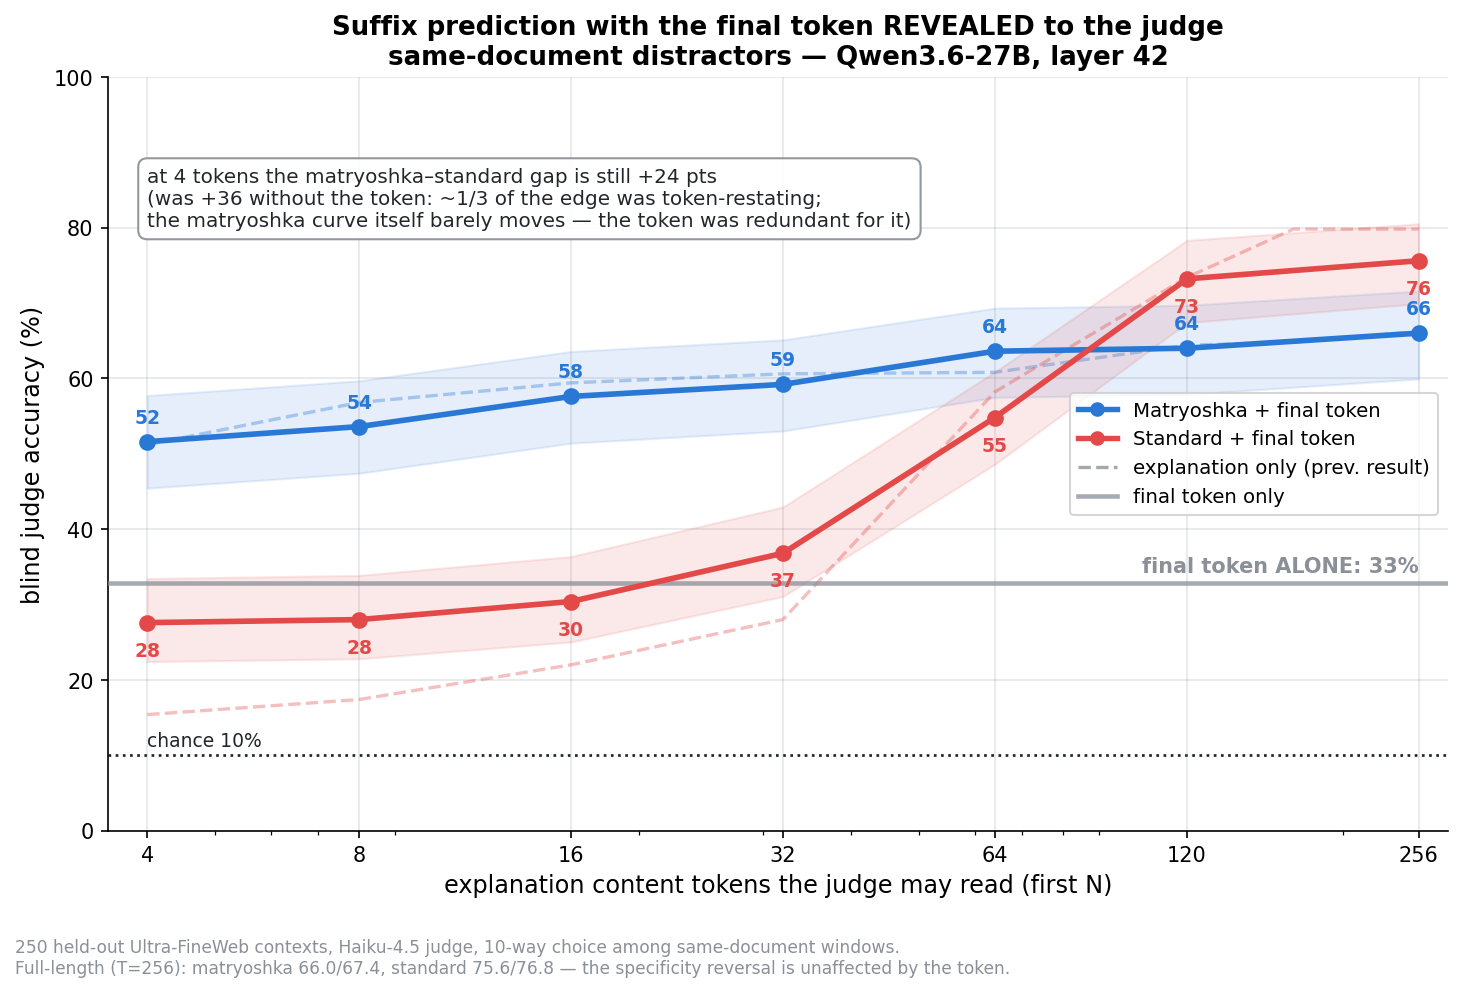
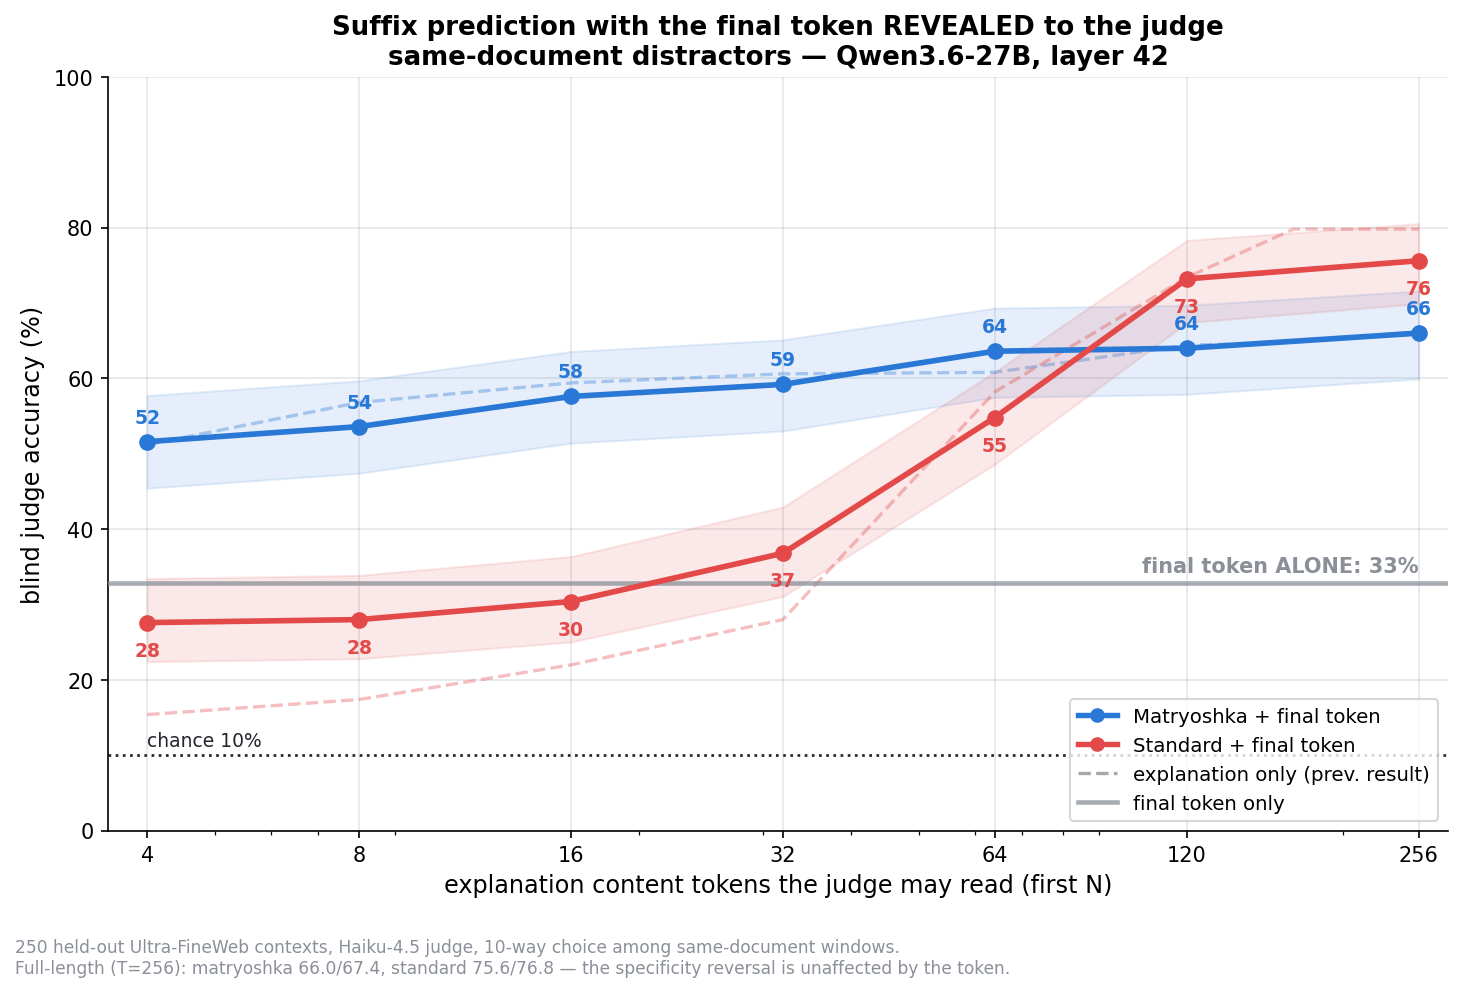
📊 ft_check: drop callout box, legend to lower right
Claude-Session: https://claude.ai/code/session_016mZoE5r73zpRomNLbakUWu

Changed region(s): [[0.0923, 0.1562, 0.6464, 0.25], [0.7387, 0.6875, 0.985, 0.8438], [0.7387, 0.375, 0.985, 0.5312]]

diff --git a/experiments/qwen3.6-27b-suffix-eval/plot_ft.py b/experiments/qwen3.6-27b-suffix-eval/plot_ft.py
@@ -55,13 +55,6 @@ def main():
     ax.axhline(10, color=INK, ls=":", lw=1.3, zorder=1)
     ax.text(4, 11.2, "chance 10%", ha="left", fontsize=9, color=INK)
 
-    # callout: gap decomposition at T=4 (no arrow — the text names the point)
-    ax.text(4.0, 88, "at 4 tokens the matryoshka–standard gap is still +24 pts\n"
-                     "(was +36 without the token: ~1/3 of the edge was token-restating;\n"
-                     "the matryoshka curve itself barely moves — the token was redundant for it)",
-            fontsize=9.6, color=INK, ha="left", va="top",
-            bbox=dict(boxstyle="round,pad=0.45", fc="white", ec=GRAY, alpha=0.92))
-
     ks = sorted(curves["mat"])
     ax.set_xscale("log")
     ax.set_xticks(ks)
@@ -78,7 +71,7 @@ def main():
         Line2D([], [], color=RED, lw=2.6, marker="o", label="Standard + final token"),
         Line2D([], [], color=INK, lw=1.6, ls="--", alpha=0.4, label="explanation only (prev. result)"),
         Line2D([], [], color=GRAY, lw=2.2, alpha=0.75, label="final token only"),
-    ], fontsize=9.5, loc="center right")
+    ], fontsize=9.5, loc="lower right")
     ax.spines[["top", "right"]].set_visible(False)
     ax.grid(color=GRAY, alpha=0.22, zorder=0)
     fig.text(0.01, -0.02,
